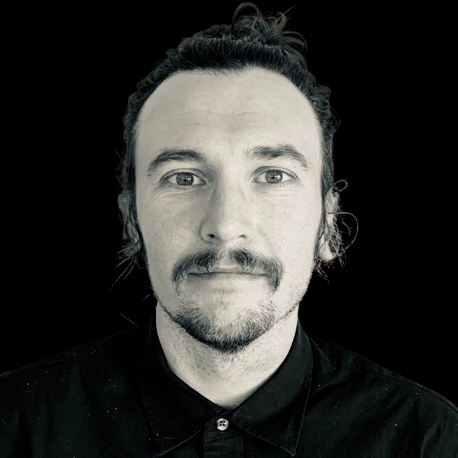
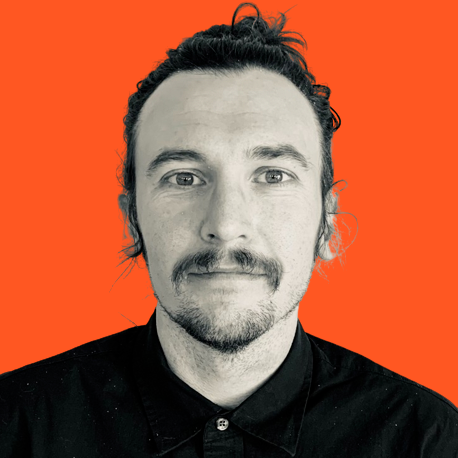
Add new background, update styling of nav

diff --git a/src/sass/Navbar.scss b/src/sass/Navbar.scss
@@ -1,43 +1,39 @@
+@import url('https://fonts.googleapis.com/css2?family=Lobster&display=swap');
 
 // Nav Bar Container
 .header-nav {
+  background-color: none;
   display: flex;
   justify-content: space-between;
   align-items: center;
-  text-shadow: 1px 1px 2px rgb(88, 250, 158), 0 0 25px rgb(251, 175, 94), 0 0 5px rgb(0, 0, 0);
+  font-family: 'Lobster', cursive;
+  font-size: 2rem;
   .logo {
-    width: 20%;
-    height: 15%;
-    opacity: 60%;
-    &:hover {
-      opacity: 100%;
-      transition: opacity 0.4s;
-    }
+    width: 25%;
+    height: 25%;
   }
   .nav-list {
     display: flex;
     flex-direction: row;
-    margin: 0 0 0 32px;
-    line-height: 1.2;
+    margin: 0 0 0 1rem;
+    line-height: 1.2rem;
   }
   a {
-  margin: 0px 16px 0px 16px;
-  font-weight: bold;
-  text-transform: uppercase;
+  margin: 0px 1rem 0px 1rem;
   text-decoration: none;
-transition: color 0.3s;
+  transition: color 0.3s;
   &:hover {
-    color: rgb(251, 175, 94);
-    text-shadow: 0 0 2px rgb(247, 199, 245);
+    color: rgb(248, 55, 55);
+    text-shadow: 0 0 2px rgb(68, 246, 234);
     transition: color text-shadow 0.6s;
 
   }
   }
   .active {
-    color: rgb(243, 190, 245);
+    color: rgb(68, 246, 234);
     text-decoration: none;
     transition: color 0.6s;
-    text-decoration: underline;
+    text-shadow: .10rem .10rem  rgb(248, 55, 55);
   }
 }
 

diff --git a/src/sass/App.scss b/src/sass/App.scss
@@ -1,4 +1,4 @@
-@import url("https://fonts.googleapis.com/css2?family=Poppins:wght@400;700;900&display=swap");
+@import url('https://fonts.googleapis.com/css2?family=Lobster&display=swap');
 
 // DEFAULTS
 html,
@@ -151,27 +151,10 @@ html {
   min-height: 100%;
 }
 body {
-  font-family: "Poppins", sans-serif;
   line-height: 1.75;
-  background-color: #02296cfb;
-  // background-image: url("https://media0.giphy.com/media/UTHFuyuMENren9AI9b/giphy.gif?cid=ecf05e47lj3z7xlteamxpcy07xulve03wupmdehhkukehvyb&rid=giphy.gif&ct=g");
-  // background-image: url("https://media4.giphy.com/media/Y3MLVPRtnzpbygOqef/giphy.gif?cid=ecf05e47owanc0xp7ksshx8g7lb8x2atvz7pa10x9jt69r5t&rid=giphy.gif&ct=g");
-  background-image: url("../assets/snowmount.jpg");
+  background-image: url("../assets/trees.jpg");
   background-size: cover;
   background-position: center;
   background-repeat: no-repeat;
-  color: papayawhip;
-  margin: 1% auto 1% auto;
-  width: 100vw;
+  color: white;
 }
-
-
-
-// SECTIONS
-section {
-  margin: 80px 0px 80px 0px;
-  display: grid;
-  grid-template-columns: repeat(12, 1fr);
-  gap: 32px 32px;
-}
-

diff --git a/src/routes/Skills.js b/src/routes/Skills.js
@@ -12,13 +12,10 @@ function Skills() {
   return (
     <div className="container px-4 py-10 mx-auto">
       <div className="text-center my-8">
-        <HiChip className="h-10 w-10 inline-block mb-4" />
+
         <h1 className="sm:text-4xl text-3xl font-medium title-font text-white mb-4">
           Skills &amp; Technologies
         </h1>
-        <p className="text-base leading-relaxed text-lg xl:w-2/4 lg:w-3/4 mx-auto">
-          Technologies I have worked with recently
-        </p>
       </div>
       <div className="flex flex-wrap lg:w-4/5 sm:mx-auto sm:mb-2 -mx-2">
         {skills.map((skill) => (

diff --git a/src/routes/Contact.js b/src/routes/Contact.js
@@ -89,8 +89,7 @@ function Contact() {
           Get in Touch
         </h2>
         <p className="leading-relaxed mb-5">
-          Want to hire me or collaborate on a project? Or would you like to set
-          up a coffee chat? Just want to chat? Great! Fill out the form below,
+          Would you like to connect? Great! Fill out the form below,
           and I'll get back to you within 48 hours.
         </p>
         <div className="relative mb-4">

diff --git a/src/routes/About.js b/src/routes/About.js
@@ -1,4 +1,3 @@
-import "../sass/About.scss";
 
 /** About
  *
